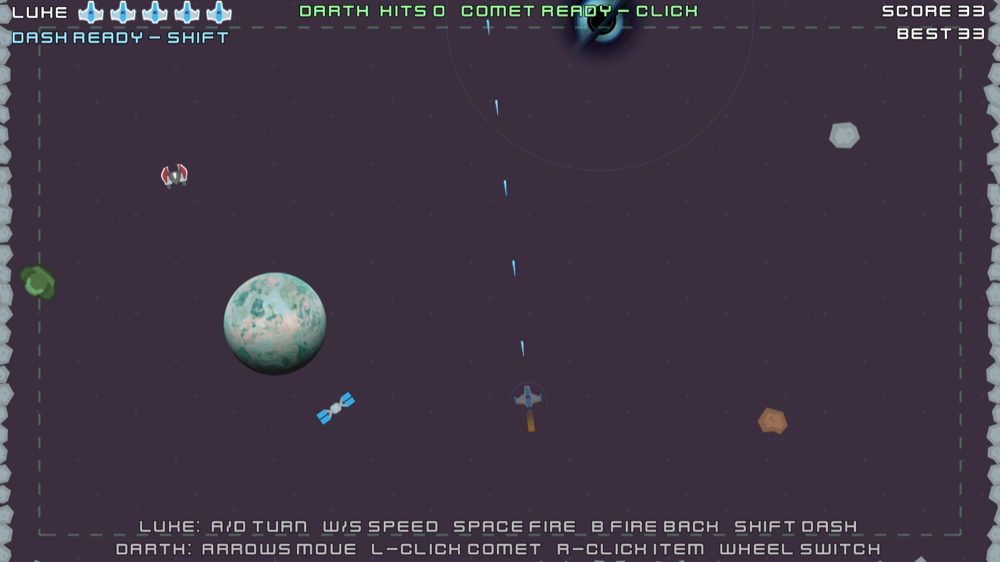
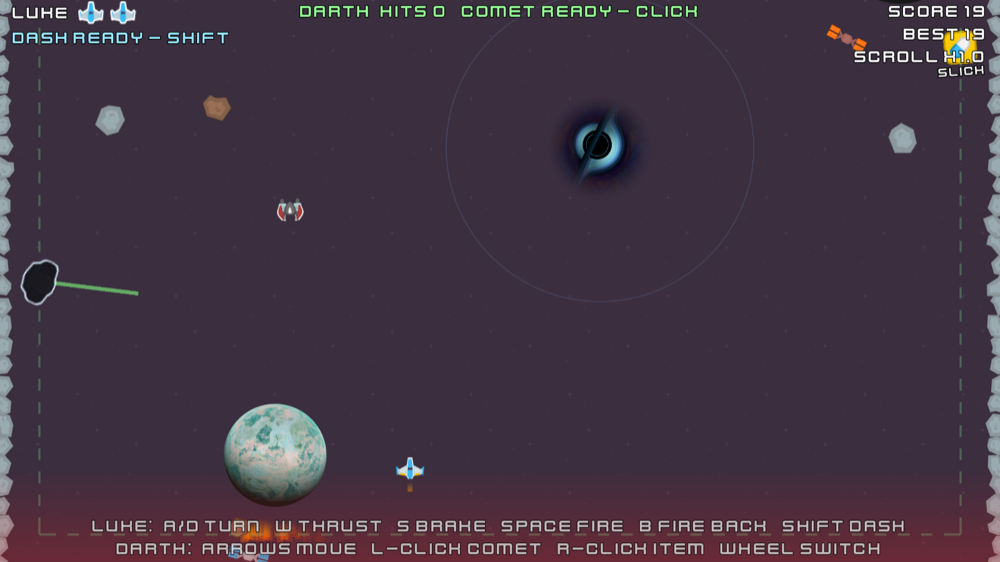
Auto-scrolling screen that speeds up with the score
- After a 3 s GET READY countdown the camera climbs on its own: 60 px/s
  plus 8 px/s per 100 points, capped at 260 (below Luke's top speed)
- Flying into the top third of the screen makes it catch up, so Luke
  can't leave the top
- Dropping below the bottom edge costs a life and bumps Luke back up;
  while shielded the edge just carries him along. A red glow at the
  bottom warns as he gets close
- SCROLL xN readout under the score
- Level building and cleanup follow the screen; the old invisible
  backtrack limit is gone
- Crates no longer spawn at the very top ends of Darth's track (HUD)

diff --git a/README.md b/README.md
@@ -2,6 +2,11 @@
 
 This is the **`vertical` branch**: the same game, but it scrolls upwards.
 Luke starts at the bottom and climbs; the level keeps generating above him.
+After a 3 second GET READY countdown the screen scrolls up on its own, starting
+at 60 px/s and speeding up by 8 px/s per 100 points (up to 260 px/s; shown as
+SCROLL xN under the score). Falling below the bottom edge costs a life and
+bumps Luke back onto the screen (a red glow warns when he gets close); flying
+into the top third makes the screen speed up to keep him in view.
 The play area is 2600 px wide with rock walls on the left and right, and the
 camera fits the full width on screen. Your score is how high you climb
 (furthest point, 1 point per 10 pixels) plus 100 points every time Luke stuns Darth. The best score is saved separately from the side-scrolling version
